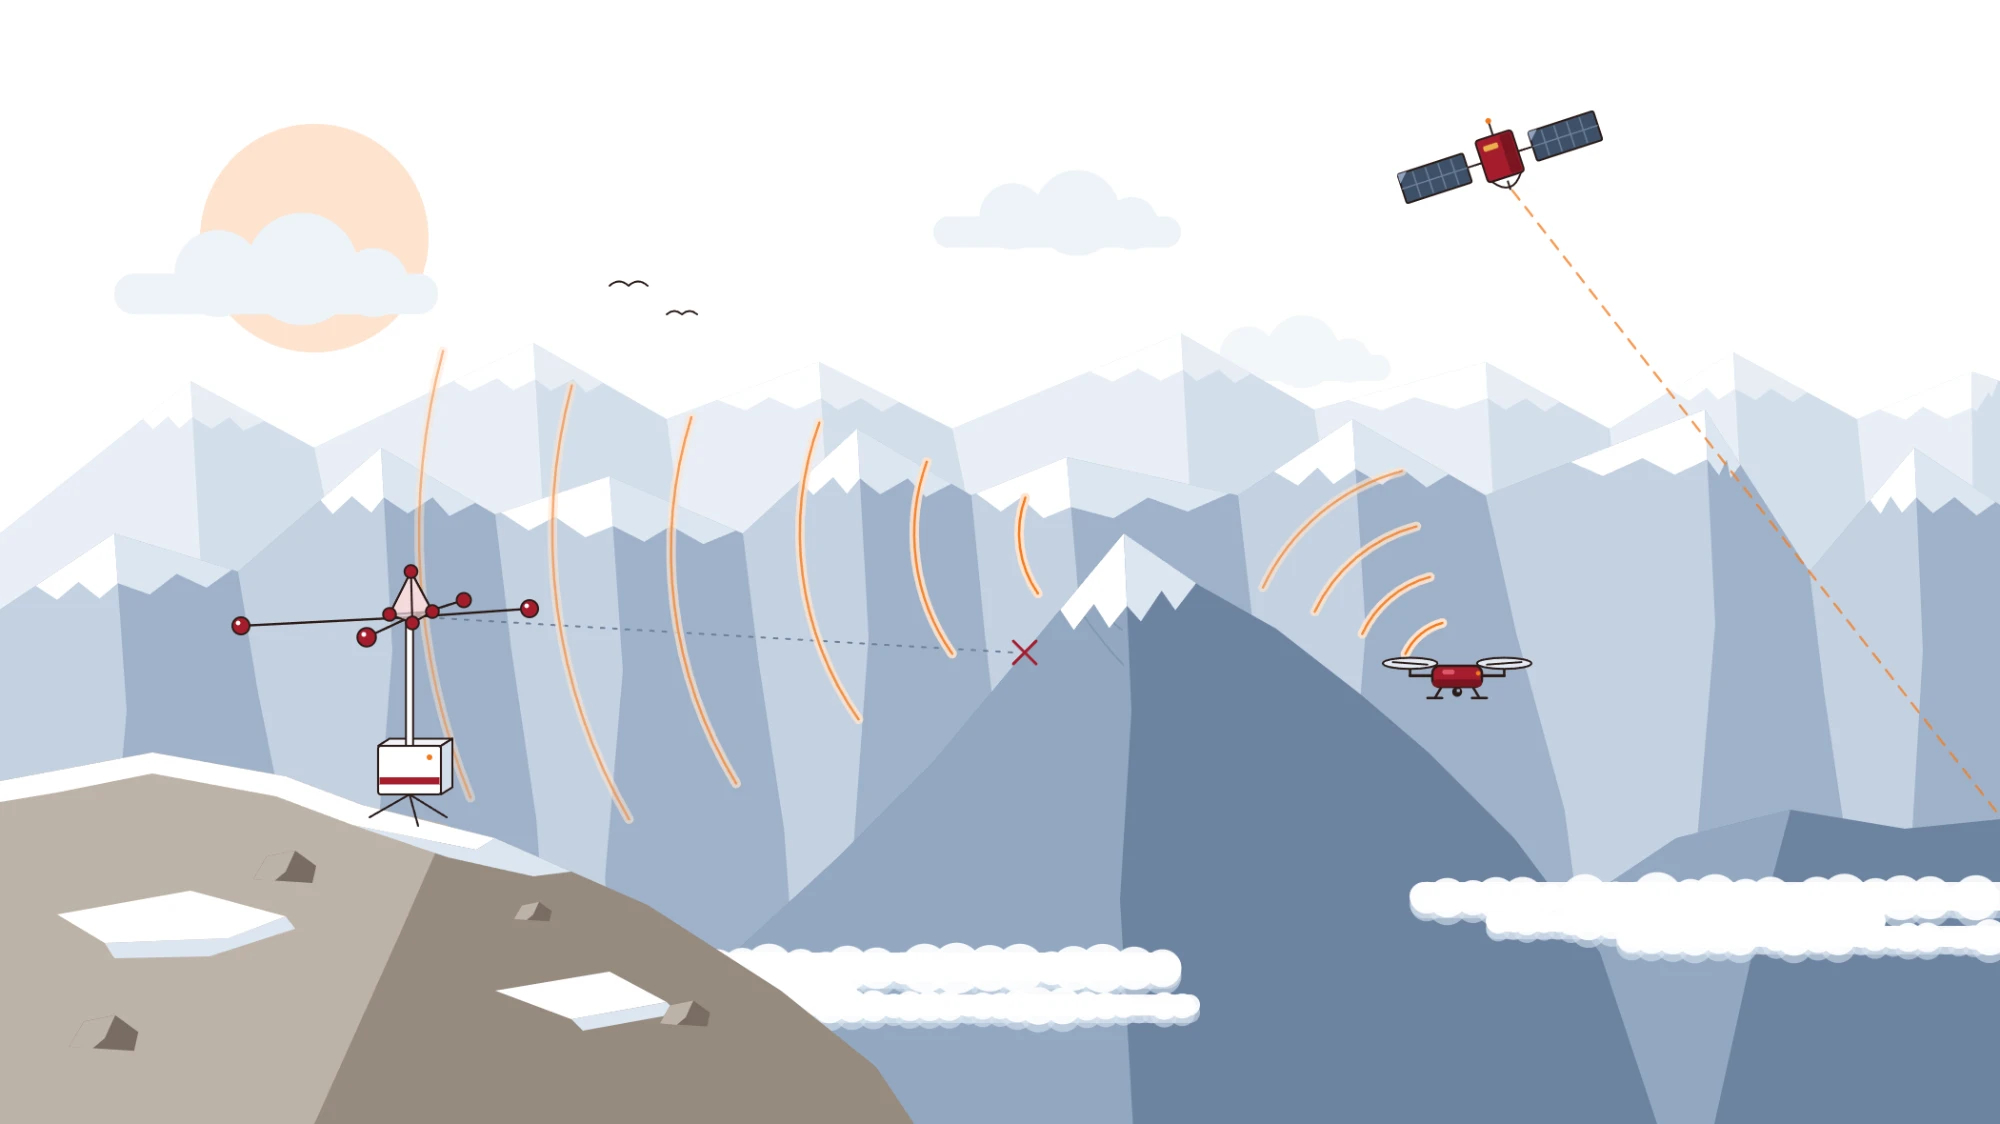
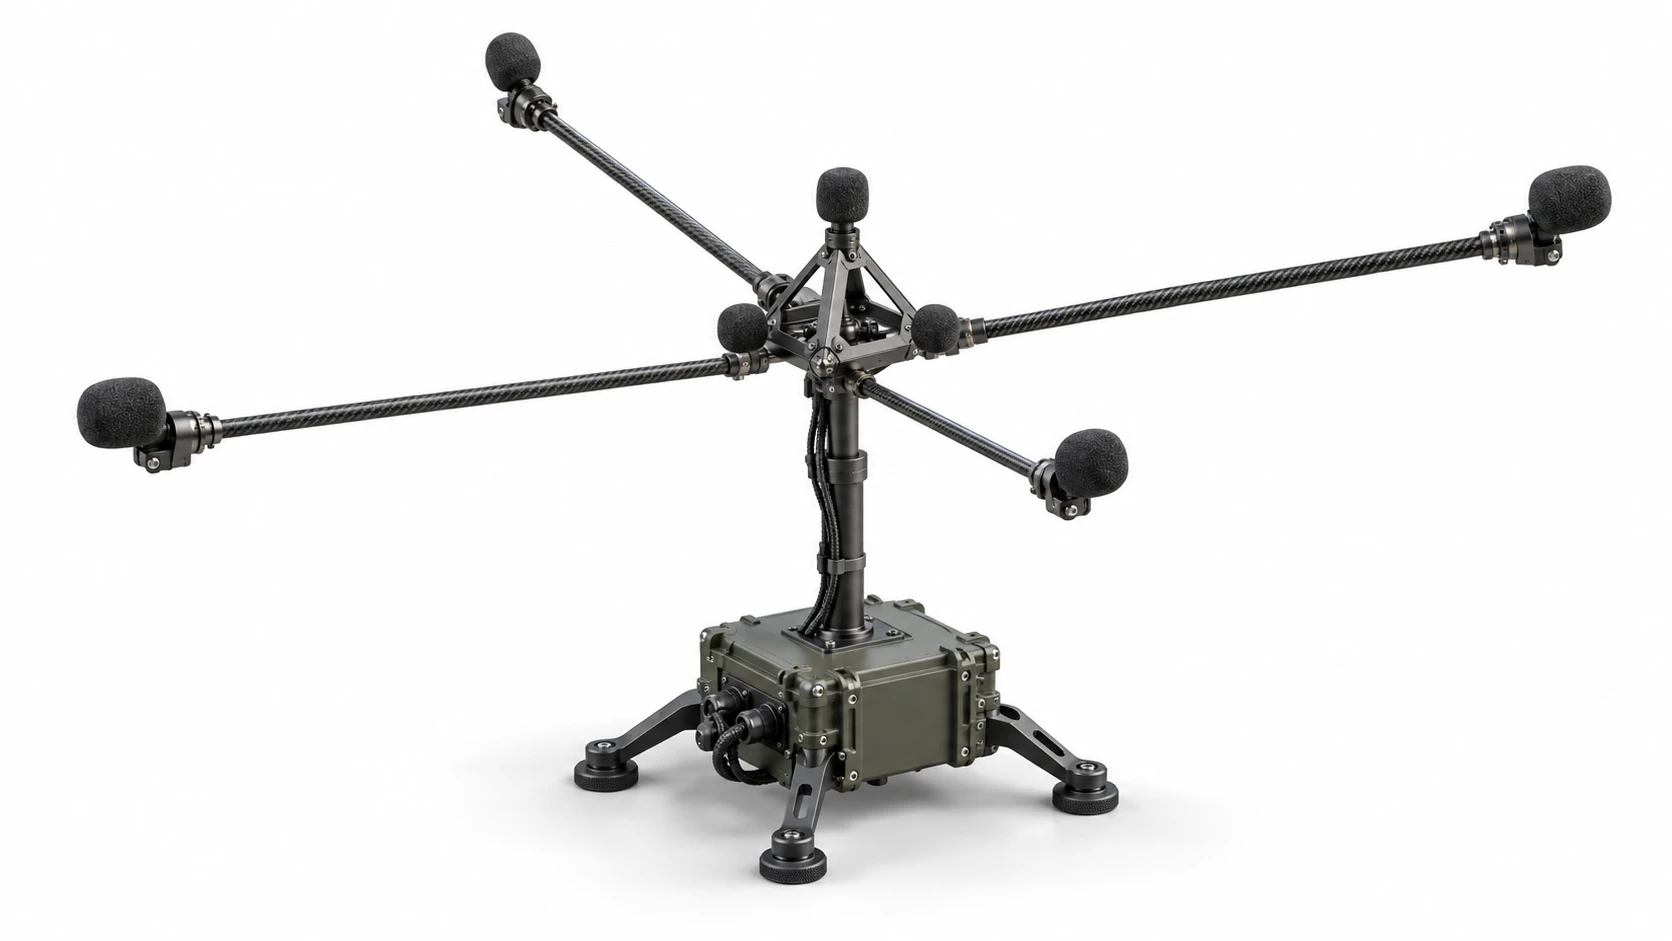
Replace counter-UAS hero with nested acoustic array render
Claude-Session: https://claude.ai/code/session_01MBxW6rg86G5eSpLxaUFvy4

diff --git a/projects/counter-uas.html b/projects/counter-uas.html
@@ -69,7 +69,7 @@
   </div>
   <!-- Placeholder image: swap the src for the real file and update the alt text. Label renders as renders. -->
   <figure class="pd-figure pd-hero-fig sd-reveal">
-    <img src="../assets/img/projects/counter-uas/hero.webp" alt="Illustration of the counter-UAS concept in snowy mountains: a hilltop acoustic array hears a drone in the valley, its sound waves bending around a peak that blocks line of sight, while a satellite beacon path crosses the drone&rsquo;s route" width="2000" height="1124">
+    <img src="../assets/img/projects/counter-uas/hero.webp" alt="Render of the nested acoustic array: a central mast topped by a tetrahedral hub of foam-covered microphones, with four carbon-fibre arms of different lengths reaching out to microphone pods, standing on a rugged olive-green enclosure with four splayed feet" width="1672" height="941">
     <figcaption>Concept render, not a photograph.</figcaption>
   </figure>
 </header>
